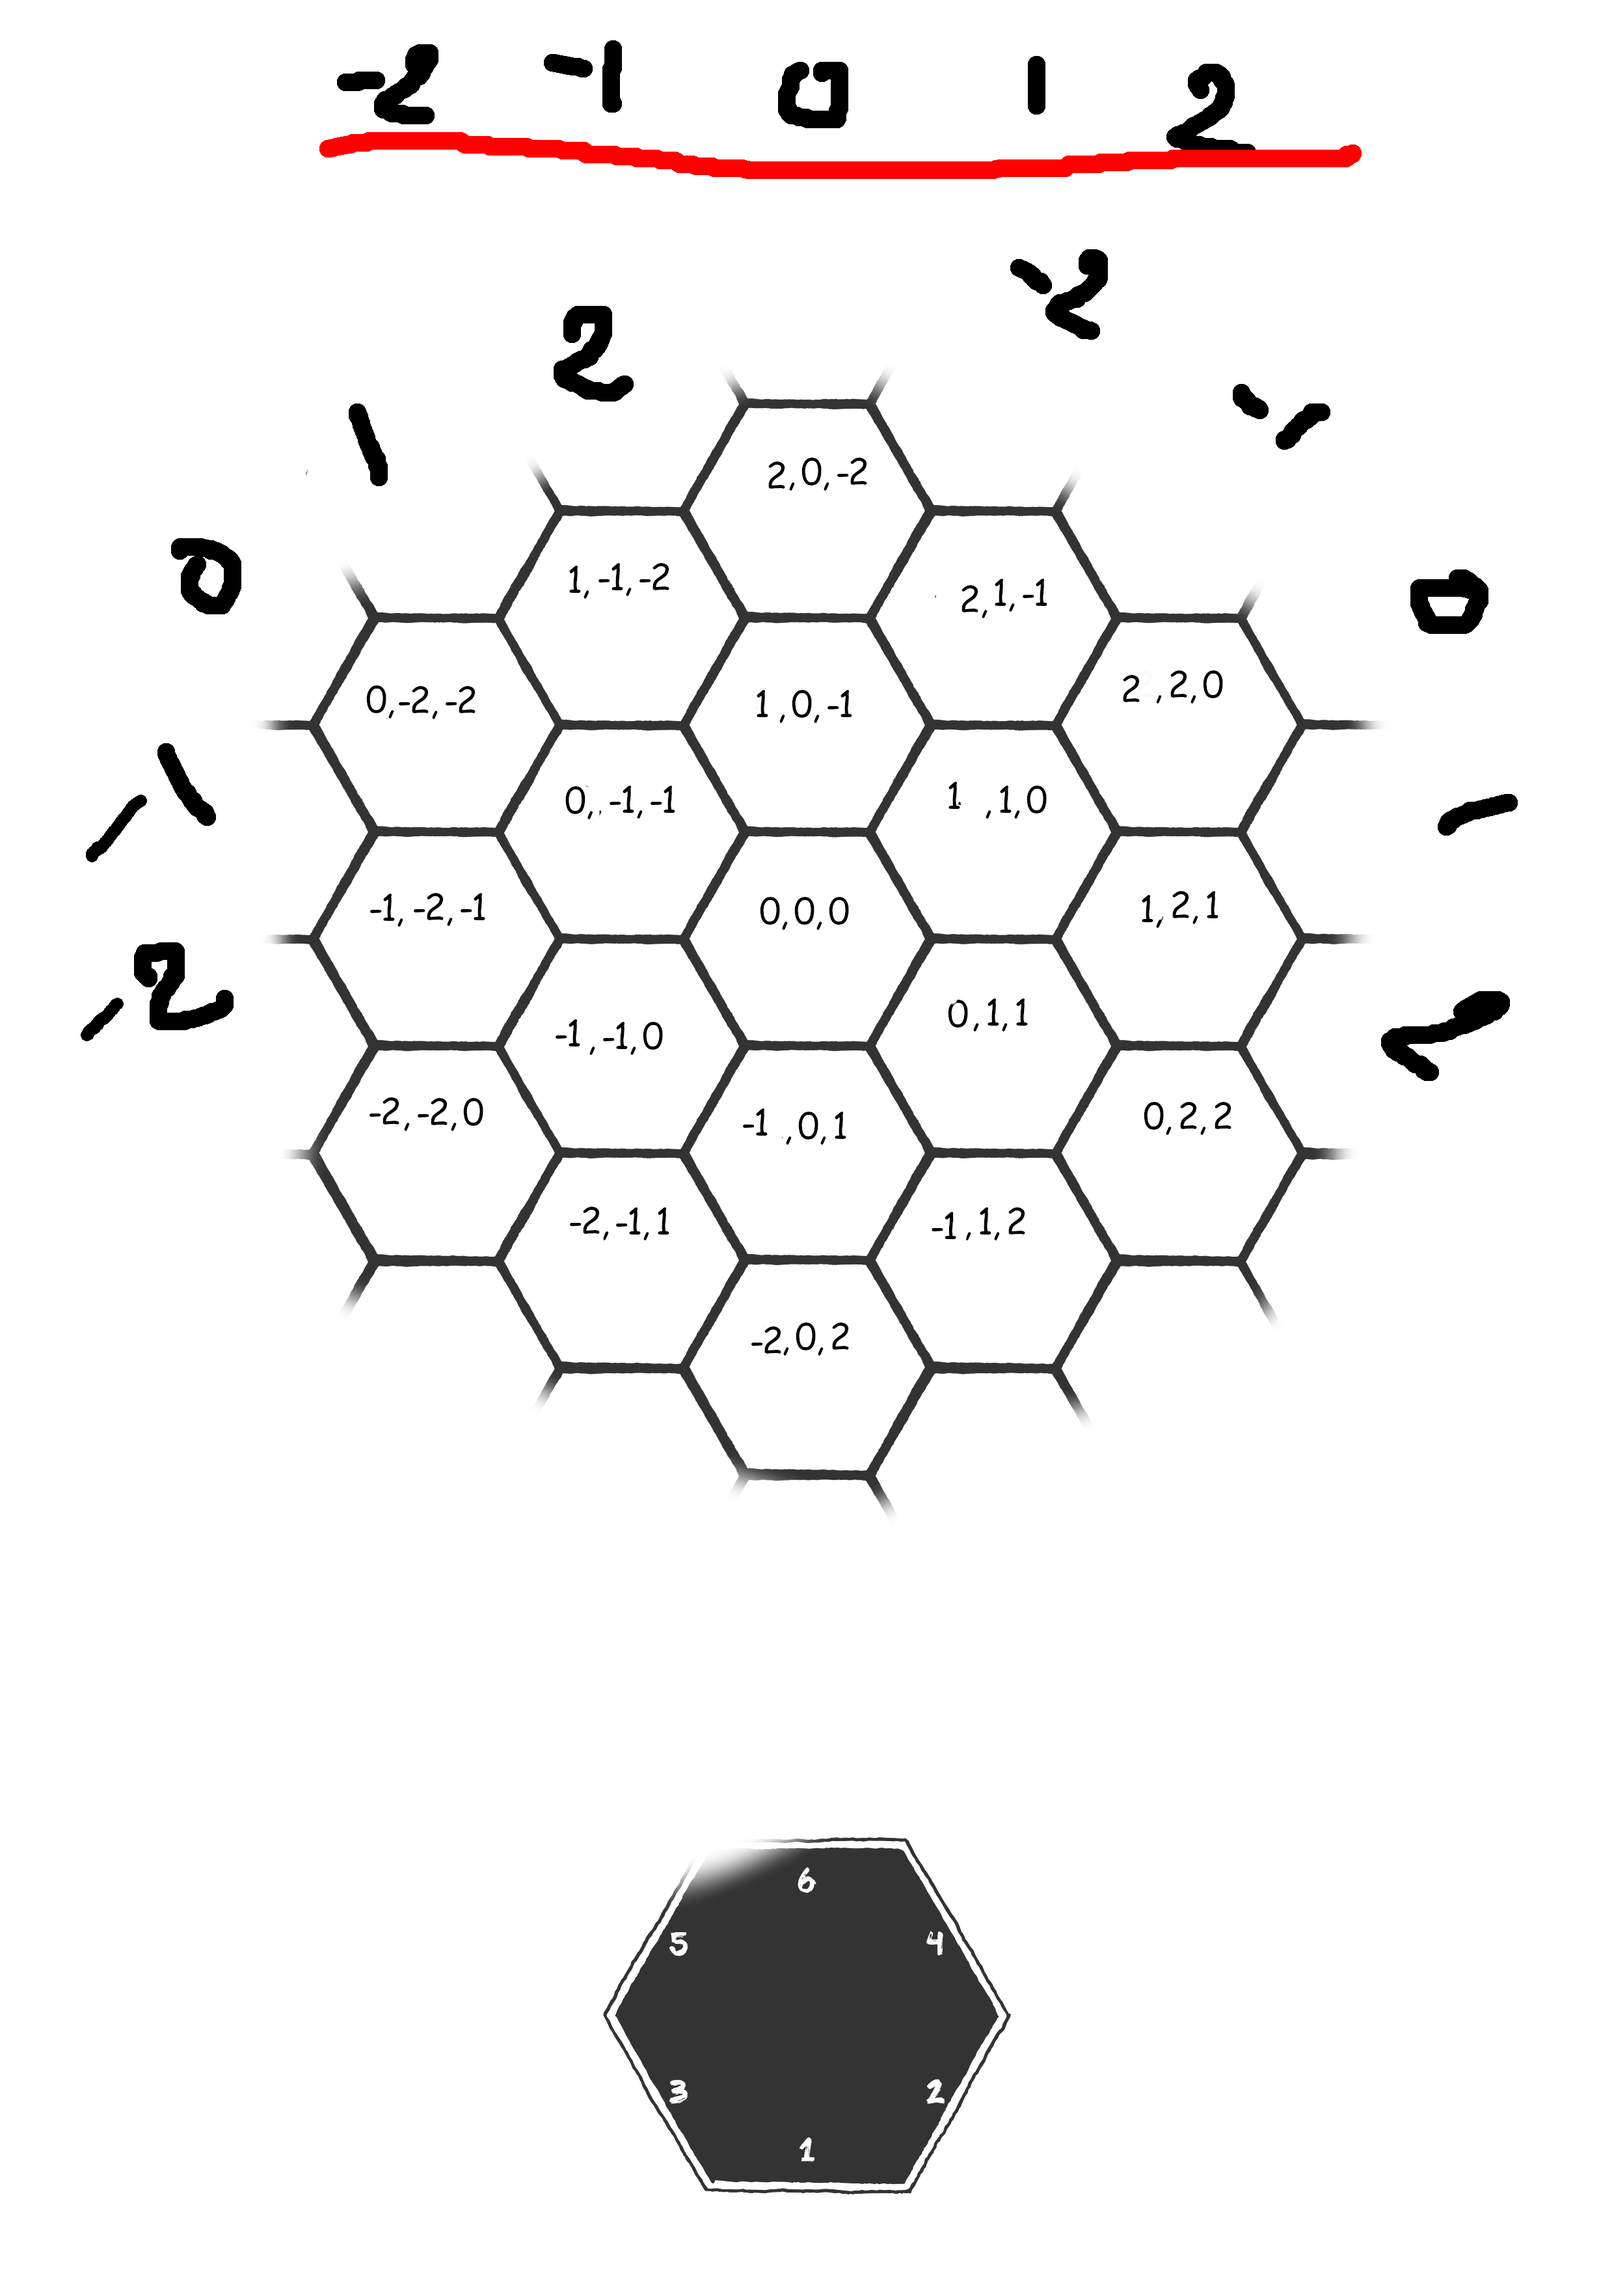
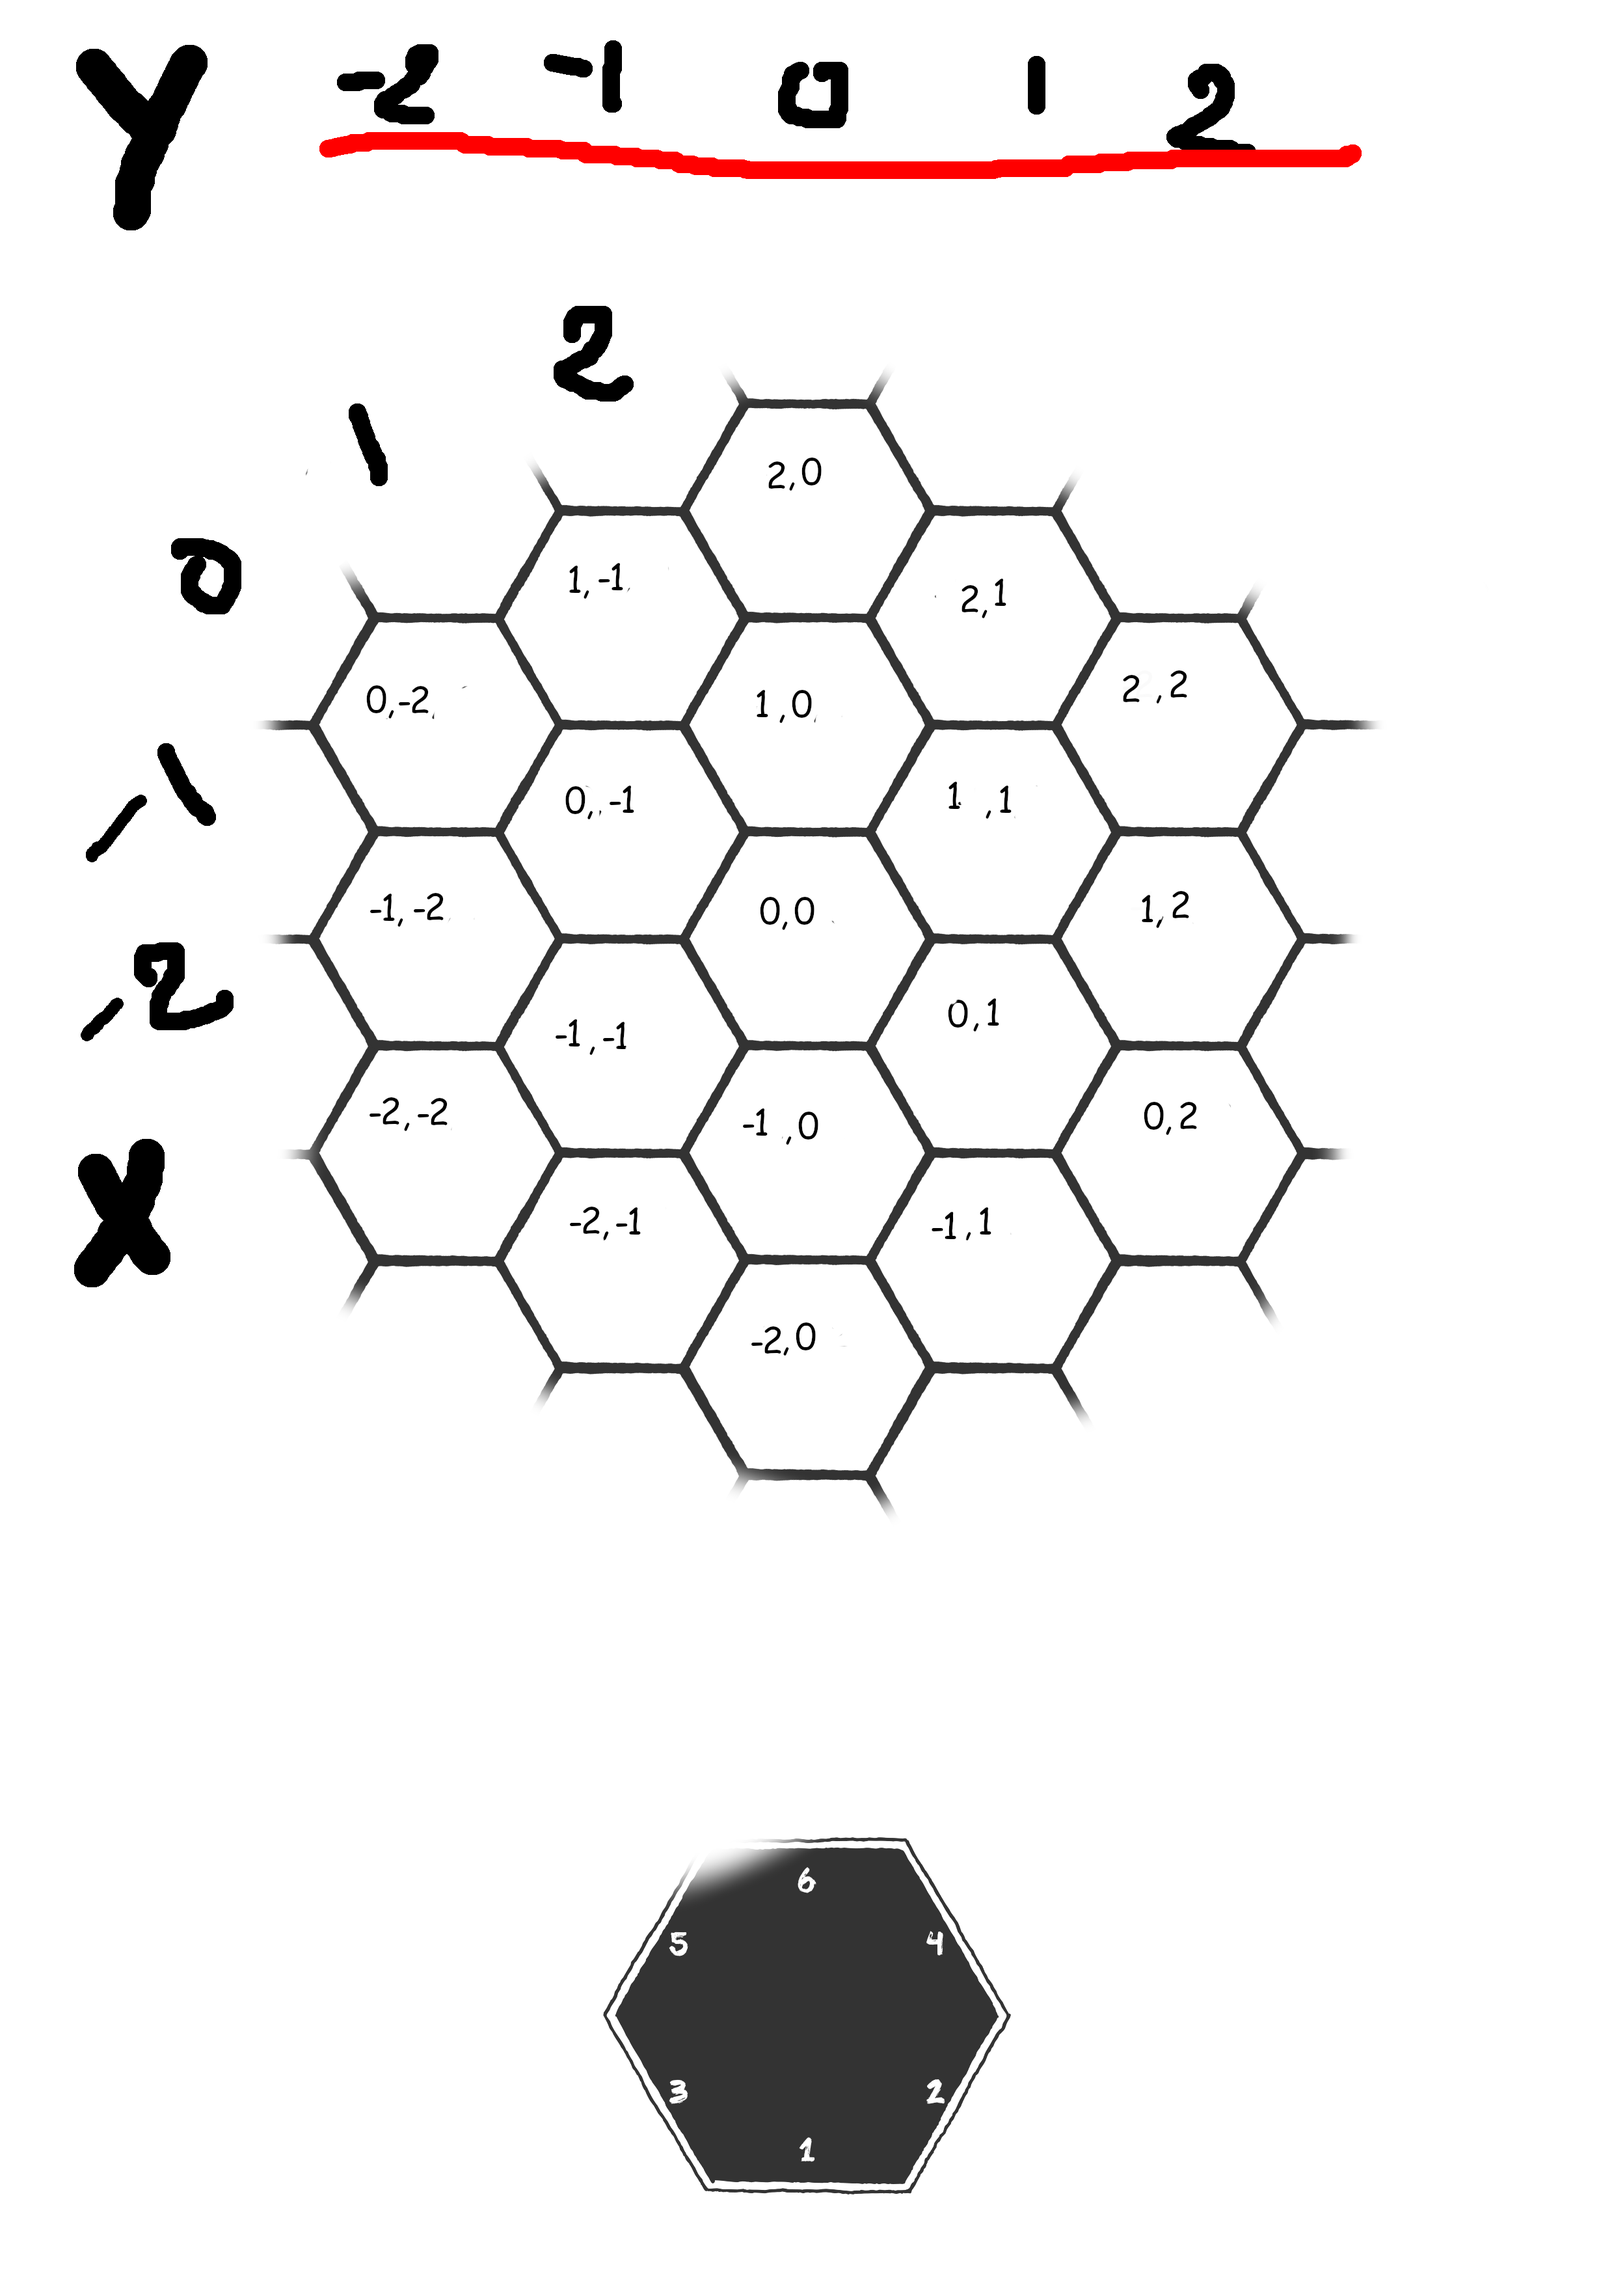
getting rid of useless variable z that was (y - x)

diff --git a/src/class_hex_flower.py b/src/class_hex_flower.py
@@ -3,32 +3,31 @@ import random
 
 
 class Hex:
-    def __init__(self, x, y, z, title, description, effect=None):
+    def __init__(self, x, y, title, description, effect=None):
         self.x = x
         self.y = y
-        self.z = z
         self.title = title
         self.description = description
         self.effect = effect
 
     def __repr__(self):
-        return f"Hex({self.x}, {self.y}, {self.z}, self.{self.title}, {self.description}, {self.effect})"
+        return f"Hex({self.x}, {self.y}, self.{self.title}, {self.description}, {self.effect})"
 
 
 class HexGrid:
-    DIRECTIONS = {"N": (1, 0, -1), "NE": (1, 1, 0), "SE": (0, 1, 1),
-                  "S": (-1, 0, 1), "SW": (-1, -1, 0), "NW": (0, -1, -1)}
+    DIRECTIONS = {"N": (1, 0), "NE": (1, 1), "SE": (0, 1),
+                  "S": (-1, 0), "SW": (-1, -1), "NW": (0, -1)}
 
-    IMPOSSIBLE_MOVES = {((2, 0, -2), "N"), ((1, -1, -2), "N"), ((2, 1, -1), "N")}
+    IMPOSSIBLE_MOVES = {((2, 0), "N"), ((1, -1), "N"), ((2, 1), "N")}
 
     LOOPS = {
-        "WEST": {((0, -2, -2), "SW"): (-1, -2, -1), ((-2, -2, 0), "NW"): (-1, -2, -1)},
-        "EAST": {((2, 2, 0), "SE"): (1, 2, 1), ((0, 2, 2), "NE"): (1, 2, 1)},
-        "SOUTH_WEST": {((-2, 0, 2), "SW"): (-2, -1, 1)},
-        "SOUTH_EAST": {((-2, 0, 2), "SE"): (-1, 1, 2)}
+        "WEST": {((0, -2), "SW"): (-1, -2), ((-2, -2), "NW"): (-1, -2)},
+        "EAST": {((2, 2), "SE"): (1, 2), ((0, 2), "NE"): (1, 2)},
+        "SOUTH_WEST": {((-2, 0), "SW"): (-2, -1)},
+        "SOUTH_EAST": {((-2, 0), "SE"): (-1, 1)}
     }
 
-    def __init__(self, init_file=None, current_position=(1, 0, -1)):
+    def __init__(self, init_file=None, current_position=(1, 0)):
         self.min_coord = -2
         self.max_coord = 2
         self.grid = self.init_grid(init_file)
@@ -41,11 +40,11 @@ class HexGrid:
             with open(init_file, "r") as file:
                 data = json.load(file)
                 for key, value in data.items():
-                    x, y, z = eval(key)
+                    x, y = eval(key)
                     title = value["title"]
                     description = value["description"]
                     effect = value["effect"]
-                    grid[(x, y, z)] = Hex(x, y, z, title, description, effect)
+                    grid[(x, y)] = Hex(x, y, title, description, effect)
         else:
             print("error, no file given")
         return grid
@@ -65,23 +64,22 @@ class HexGrid:
         new_coordinates = [
             coordinates[0] + direction[0],
             coordinates[1] + direction[1],
-            coordinates[2] + direction[2]
         ]
-        x, y, z = new_coordinates
+        x, y = new_coordinates
 
         if (direction_name in ("N", "S") and
                 (x < self.min_coord or x > self.max_coord or
-                 z < self.min_coord or z > self.max_coord)):
-            new_coordinates = [coordinates[2], coordinates[1], coordinates[0]]
+                 (y-x) < self.min_coord or (y-x) > self.max_coord)):
+            new_coordinates = [coordinates[1]-coordinates[0], coordinates[1]]
 
         if (direction_name in ("NW", "SW", "NE", "SE") and
                 (x < self.min_coord or x > self.max_coord or
                  y < self.min_coord or y > self.max_coord or
-                 z < self.min_coord or z > self.max_coord)):
+                 (y-x) < self.min_coord or (y-x) > self.max_coord)):
             if direction_name in ("NW", "SE"):
-                new_coordinates = [coordinates[0], -coordinates[2], -coordinates[1]]
+                new_coordinates = [coordinates[0], -(coordinates[1]-coordinates[0])]
             else:
-                new_coordinates = [-coordinates[1], -coordinates[0], coordinates[2]]
+                new_coordinates = [-coordinates[1], -coordinates[0]]
         return tuple(new_coordinates)
 
     def move_current_position(self, direction_name):
@@ -113,55 +111,55 @@ def random_move():
 
 def main():
     print("*****-- LOOP EAST 1 --******")
-    new_hex_grid = HexGrid(init_file="weather_flower.json", current_position=(2, 2, 0))
+    new_hex_grid = HexGrid(init_file="weather_flower.json", current_position=(2, 2))
     print(f"Current position : {new_hex_grid.current_position}")
     new_position = new_hex_grid.move_current_position("SE")
     print(f"Current position : {new_position}\n")
 
     print("*****-- LOOP EAST 2 --******")
-    new_hex_grid = HexGrid(init_file="weather_flower.json", current_position=(0, 2, 2))
+    new_hex_grid = HexGrid(init_file="weather_flower.json", current_position=(0, 2))
     print(f"Current position : {new_hex_grid.current_position}")
     new_position = new_hex_grid.move_current_position("NE")
     print(f"Current position : {new_position}\n")
 
     print("*****-- LOOP WEST 1 --******")
-    new_hex_grid = HexGrid(init_file="weather_flower.json", current_position=(0, -2, -2))
+    new_hex_grid = HexGrid(init_file="weather_flower.json", current_position=(0, -2))
     print(f"Current position : {new_hex_grid.current_position}")
     new_position = new_hex_grid.move_current_position("SW")
     print(f"Current position : {new_position}\n")
 
     print("*****-- LOOP WEST 2 --******")
-    new_hex_grid = HexGrid(init_file="weather_flower.json", current_position=(-2, -2, 0))
+    new_hex_grid = HexGrid(init_file="weather_flower.json", current_position=(-2, -2))
     print(f"Current position : {new_hex_grid.current_position}")
     new_position = new_hex_grid.move_current_position("NW")
     print(f"Current position : {new_position}\n")
 
     print("*****-- LOOP SOUTH EAST --******")
-    new_hex_grid = HexGrid(init_file="weather_flower.json", current_position=(-2, 0, 2))
+    new_hex_grid = HexGrid(init_file="weather_flower.json", current_position=(-2, 0))
     print(f"Current position : {new_hex_grid.current_position}")
     new_position = new_hex_grid.move_current_position("SE")
     print(f"Current position : {new_position}\n")
 
     print("*****-- LOOP SOUTH WEST --******")
-    new_hex_grid = HexGrid(init_file="weather_flower.json", current_position=(-2, 0, 2))
+    new_hex_grid = HexGrid(init_file="weather_flower.json", current_position=(-2, 0))
     print(f"Current position : {new_hex_grid.current_position}")
     new_position = new_hex_grid.move_current_position("SW")
     print(f"Current position : {new_position}\n")
 
     print("*****-- STOP NORTH WEST --******")
-    new_hex_grid = HexGrid(init_file="weather_flower.json", current_position=(1, -1, -2))
+    new_hex_grid = HexGrid(init_file="weather_flower.json", current_position=(1, -1))
     print(f"Current position : {new_hex_grid.current_position}")
     new_position = new_hex_grid.move_current_position("N")
     print(f"Current position : {new_position}\n")
 
     print("*****-- STOP NORTH EAST --******")
-    new_hex_grid = HexGrid(init_file="weather_flower.json", current_position=(2, 1, -1))
+    new_hex_grid = HexGrid(init_file="weather_flower.json", current_position=(2, 1))
     print(f"Current position : {new_hex_grid.current_position}")
     new_position = new_hex_grid.move_current_position("N")
     print(f"Current position : {new_position}\n")
 
     print("*****-- STOP NORTH NORTH --******")
-    new_hex_grid = HexGrid(init_file="weather_flower.json", current_position=(2, 0, -2))
+    new_hex_grid = HexGrid(init_file="weather_flower.json", current_position=(2, 0))
     print(f"Current position : {new_hex_grid.current_position}")
     new_position = new_hex_grid.move_current_position("N")
     print(f"Current position : {new_position}\n")

diff --git a/main.py b/main.py
@@ -1,11 +1,23 @@
-
-
-
+import random
 
 
 def main():
-    pass
+    dice_six = random.randrange(1, 7, 1)
+    print(dice_six)
+    dice_six = random.randrange(1, 7, 1)
+    print(dice_six)
+    dice_six = random.randrange(1, 7, 1)
+    print(dice_six)
+    dice_six = random.randrange(1, 7, 1)
+    print(dice_six)
+    dice_six = random.randrange(1, 7, 1)
+    print(dice_six)
+    dice_six = random.randrange(1, 7, 1)
+    print(dice_six)
+    dice_six = random.randrange(1, 7, 1)
+    print(dice_six)
+
+
 
 if __name__ == '__main__':
     main()
-
